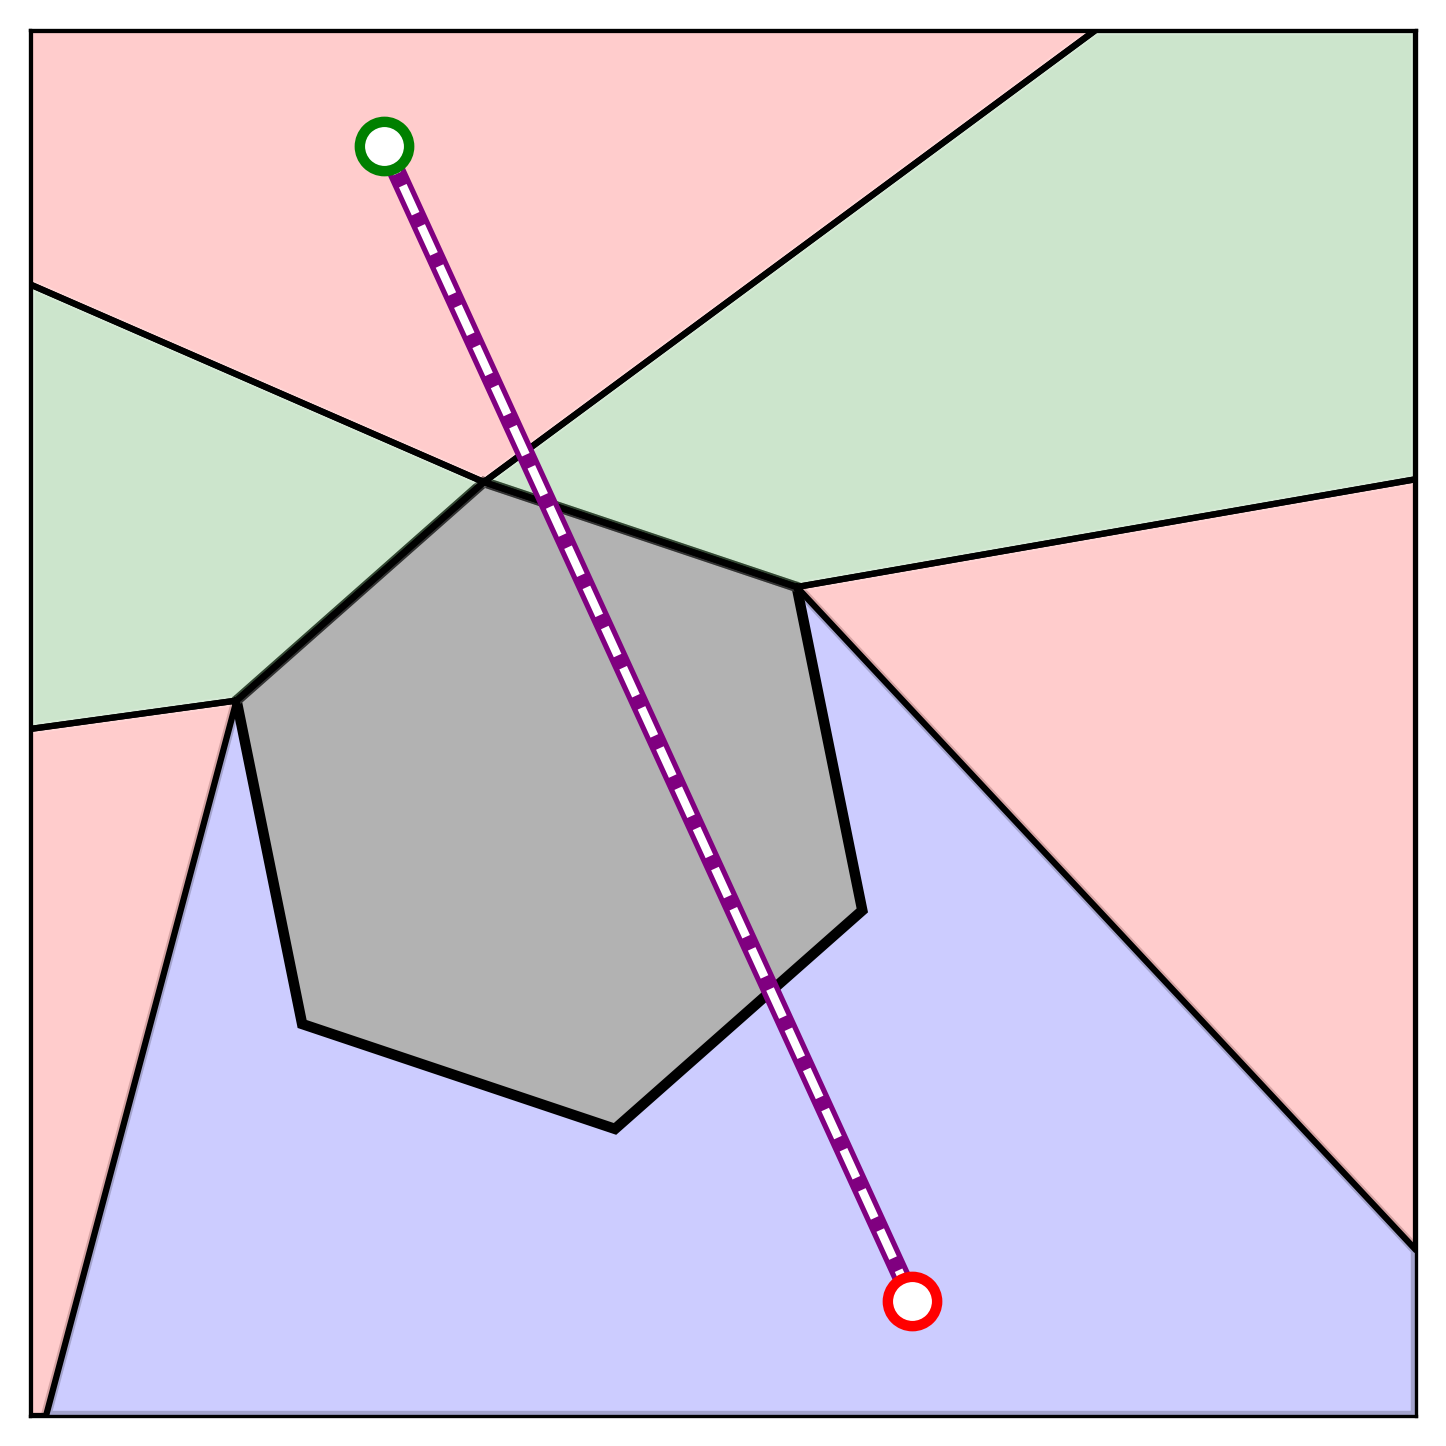
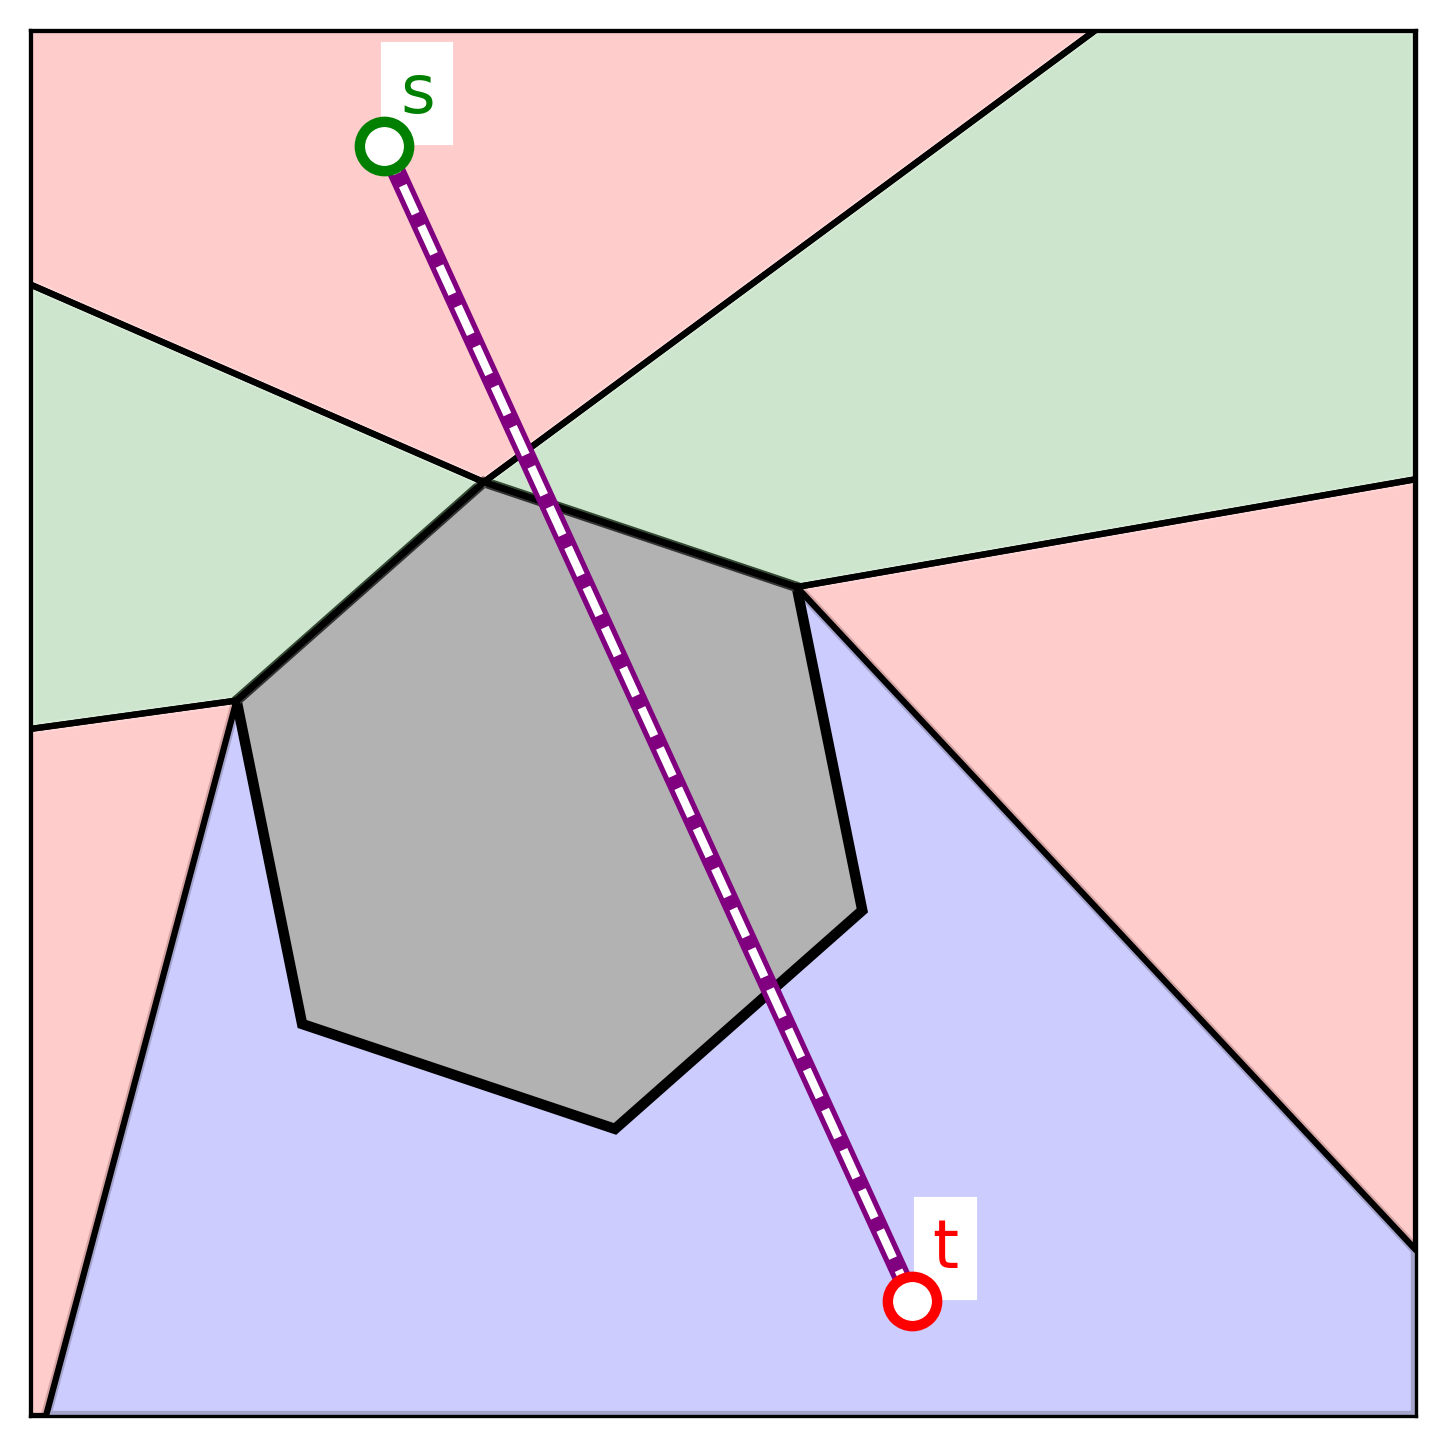
Mudando estilo da página

Changed region(s): [[0.6224, 0.8091, 0.6846, 0.9025], [0.249, 0.0311, 0.3112, 0.1245]]

diff --git a/Relatório2/main.tex b/Relatório2/main.tex
@@ -126,7 +126,7 @@
 \setlength{\parindent}{2em}
 
 % Page style setup
-\pagestyle{fancy}
+% \pagestyle{fancy}
 \lhead{\footnotesize {\sc }}
 \chead{}
 \rhead{\footnotesize {\sc mac-ime-usp}}
@@ -267,11 +267,11 @@ Com base nessas ideias, implementamos o Algoritmo~\algref{alg:consulta-caminho},
 		\Return {} \(\mathbb{P} \oplus [v]\) \tcp{Adiciona \(v\) ao final do caminho \(\mathbb{P}\)}
 	}
 	
-	\ElseIf {\(R\) corresponde a uma aresta \(e = \overline{v^1 v^2}\) de \(P_i\)} {
-		\(p' \leftarrow\) reflexão de \(p\) em relação à reta que contém \(e\) \\
+	\ElseIf {\(R\) corresponde a uma aresta \(e = \overrightarrow{v^1 v^2}\) de \(P_i\)} {
+		\(p' \leftarrow\) reflexão de \(p\) em relação à reta que contém \(e\) \ref{eq:reflection_on_edge} \\
 		\(\mathbb{P} \leftarrow \text{ConsultaCaminho}(p', i - 1, s, (P_1, \dots, P_{i - 1}), (T_1, \dots, T_{i - 1}), (S_1, \dots, S_{i - 1}))\) \\
 		\(q' \leftarrow\) último ponto de \(\mathbb{P}\) \\
-		\(q \leftarrow\) ponto de interseção entre as retas que passam por \(\overline{q' p'}\) e \(e\) \\
+		\(q \leftarrow\) ponto de interseção entre as retas que passam por \(\overrightarrow{q' p'}\) e \(e\) \ref{eq:intersection_on_edge} \\
 		\Return {} \(\mathbb{P} \oplus [q]\) \tcp{Adiciona \(q\) ao final do caminho \(\mathbb{P}\)}
 	}
 	
@@ -305,9 +305,9 @@ O Algoritmo~\algref{alg:consulta-caminho} permite calcular o~\(i\)-path até qua
 		\Return {} \(v\)
 	}
 	\ElseIf {\(R\) corresponde a uma aresta \(e\) de \(P_i\)} {
-		\(p' \leftarrow\) reflexão de \(p\) em relação à reta que contém \(e\) \\
+		\(p' \leftarrow\) reflexão de \(p\) em relação à reta que contém \(e\) \ref{eq:reflection_on_edge} \\
 		\(q' \leftarrow \text{ConsultaÚltimoPasso}(p', i - 1, s, (P_1, \dots, P_{i - 1}), (T_1, \dots, T_{i - 1}), (S_1, \dots, S_{i - 1}))\) \\
-		\(q \leftarrow\) ponto de interseção entre \(\overline{q' p'}\) e \(e\) \\
+		\(q \leftarrow\) ponto de interseção entre \(\overrightarrow{q' p'}\) e \(e\) \ref{eq:intersection_on_edge} \\
 		\Return {} \(q\)
 	}
 	\ElseIf {\(R\) corresponde a atravessar \(P_i\)} {
@@ -468,7 +468,7 @@ Uma vez que conseguimos verificar se um ponto pertence a uma região associada a
 		}
 	}
 
-	\For {aresta \(e = \overline{v^1 v^2}\) de \(P_i\) pertencente a \(T_i\)} {
+	\For {aresta \(e = \overrightarrow{v^1 v^2}\) de \(P_i\) pertencente a \(T_i\)} {
 		\(r^1 \leftarrow\) segundo raio associado a \(v^1\) em \(S_i\) \\
 		\(r^2 \leftarrow\) primeiro raio associado a \(v^2\) em \(S_i\) \\
 
@@ -510,11 +510,12 @@ Finalmente, uma vez que sabemos calcular~\(T_i\),~\(S_i\) e localizar um ponto~\
 }
 
 \end{algorithm}
+
 \subsection{Segunda Abordagem}
 
 Na segunda abordagem, alteramos apenas a implementação do algoritmo \texttt{LocalizaPonto}, utilizando uma estratégia de busca binária para localizar o ponto~\(p\) no mapa de último passo~\(S_i\). Definimos~\(u^1, \dots, u^m\) como os vértices de~\(P_i\) que pertencem a~\(T_i\), ordenados em sentido anti-horário. A ideia central do algoritmo é utilizar \emph{arestas fictícias} que conectam dois vértices~\(u^i\) e~\(u^j\), formando uma nova região~\(R\). Essa região possui a propriedade de que é possível verificar se~\(p\) pertence a~\(R\) em tempo~\(O(1)\), e~\(p\) está em~\(R\) se e somente se está em alguma região de vértice ou de aresta entre~\(u^i\) e~\(u^j\). Dessa forma, podemos empregar uma estratégia de busca binária para localizar~\(p\) em~\(S_i\).
 
-Assumimos que o ponto~\(p\) não está no interior do polígono~\(P_i\). Esse fato é garantido pela hipótese de que os polígonos são disjuntos, incluindo os pontos~\(s\) e~\(t\). Caso seja necessário lidar com situações em que~\(p\) possa estar no interior de~\(P_i\), o algoritmo pode ser iniciado com uma verificação de pertinência em tempo~\(O(\log(\lvert P_i \rvert))\). Essa verificação, no entanto, não será discutida aqui, pois não é o foco deste trabalho.
+Assumimos que o ponto~\(p\) não está no interior do polígono~\(P_i\). Esse fato é garantido pela hipótese de que os polígonos são disjuntos, incluindo os pontos~\(s\) e~\(t\). Caso seja necessário lidar com situações em que~\(p\) possa estar no interior de~\(P_i\), o algoritmo pode ser iniciado com uma verificação de pertinência em tempo~\(O(\log\abs{P_i})\). Essa verificação, no entanto, não será discutida aqui, pois não é o foco deste trabalho.
 
 \begin{figure}[!ht]
 	\centering
@@ -570,7 +571,7 @@ Desejamos determinar se um ponto~\(p\) pertence à região de aresta fictícia e
 
 Com essas verificações, podemos implementar o algoritmo \texttt{LocalizaPonto} utilizando a estratégia de busca binária, conforme apresentado no Algoritmo~\algref{alg:locate_point_second_approach}. Nesse algoritmo, implementamos a função auxiliar \texttt{VerificaAresta}, responsável por verificar se~\(p\) pertence à região de uma aresta fictícia entre dois vértices~\(v^1\) e~\(v^2\), de acordo com os casos discutidos anteriormente. A verificação se~\(p\) pertence à região de vértice de um dado vértice~\(u^{mid}\) é abstraída, pois é idêntica àquela utilizada no Algoritmo~\algref{alg:locate_point_first_approach}.
 
-A principal vantagem dessa abordagem é que a busca binária reduz o número de regiões de vértice verificadas para localizar~\(p\) em~\(S_i\) de~\(O(\lvert T_i \rvert)\) para~\(O(\log(\lvert T_i \rvert))\), o que pode representar uma melhoria significativa quando~\(P_i\) possui muitos vértices em~\(T_i\). Analisaremos o impacto dessa modificação com mais detalhes na análise de complexidade.
+A principal vantagem dessa abordagem é que a busca binária reduz o número de regiões de vértice verificadas para localizar~\(p\) em~\(S_i\) de~\(O\abs{T_i}\) para~\(O(\log\abs{T_i})\), o que pode representar uma melhoria significativa quando~\(P_i\) possui muitos vértices em~\(T_i\). Analisaremos o impacto dessa modificação com mais detalhes na análise de complexidade.
 
 \begin{algorithm}[!ht]
 \alglabel{alg:locate_point_second_approach}
@@ -645,7 +646,7 @@ A principal vantagem dessa abordagem é que a busca binária reduz o número de 
 		}
 	}
 
-	\Return {} região associada a aresta \(\overline{u^{l} u^{r}}\)
+	\Return {} região associada a aresta \(\overrightarrow{u^{l} u^{r}}\)
 }
 
 \end{algorithm}

diff --git a/Relatório2/notes.md b/Relatório2/notes.md
@@ -1,6 +1,6 @@
-1. Adicionar referencia a equação na linha de reflexão
-2. Deixar cores na Figura 1 iguais
-3. Figura 1, debaixo de cada: Caso (a), Caso (b), Caso (c), então caption pra figura inteira explicando explicitamente
+1. - Adicionar referencia a equação na linha de reflexão
+2. - Deixar cores na Figura 1 iguais
+3. - Figura 1, debaixo de cada: Caso (a), Caso (b), Caso (c), então caption pra figura inteira explicando explicitamente
 4. Figura 2, adicionar label pro `s`, deixar mais explícito o que está sendo mostrado.
     - `s`
     - Falar o que as cores representam
